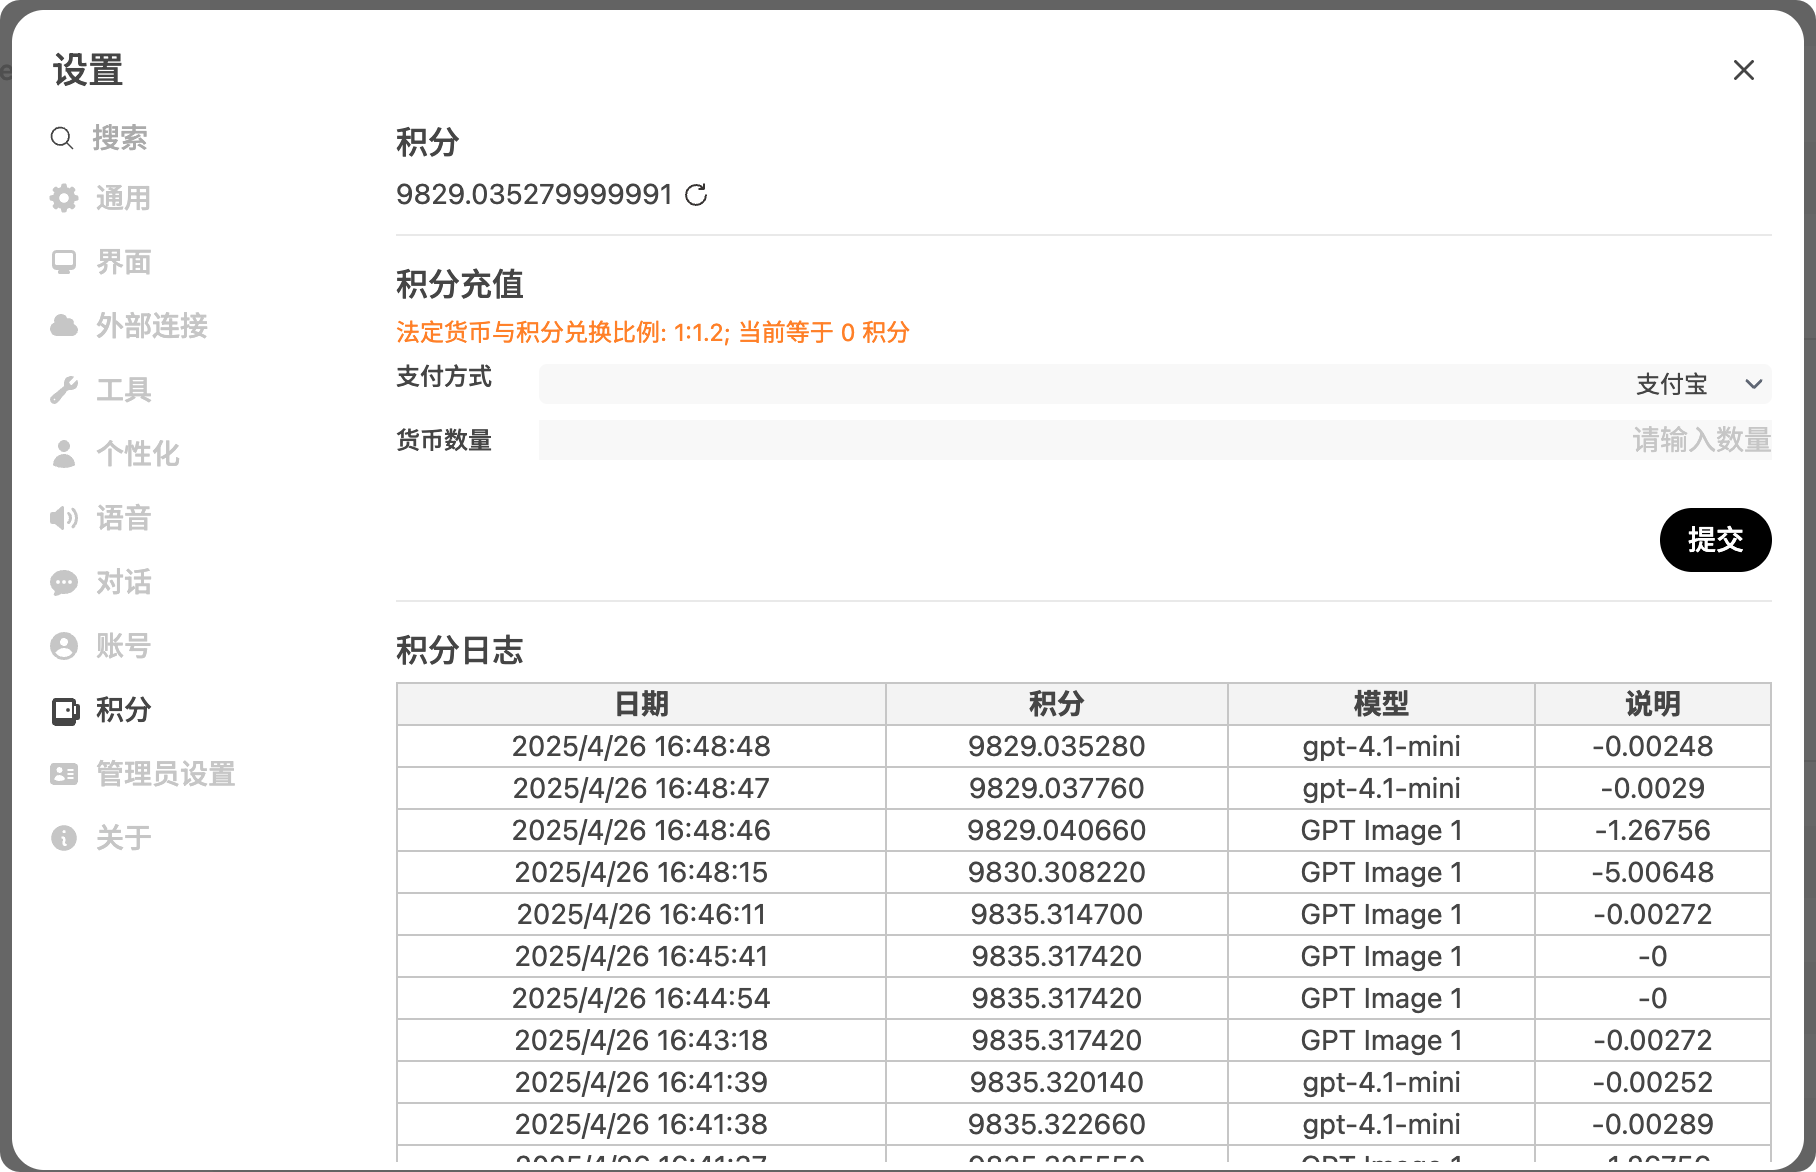
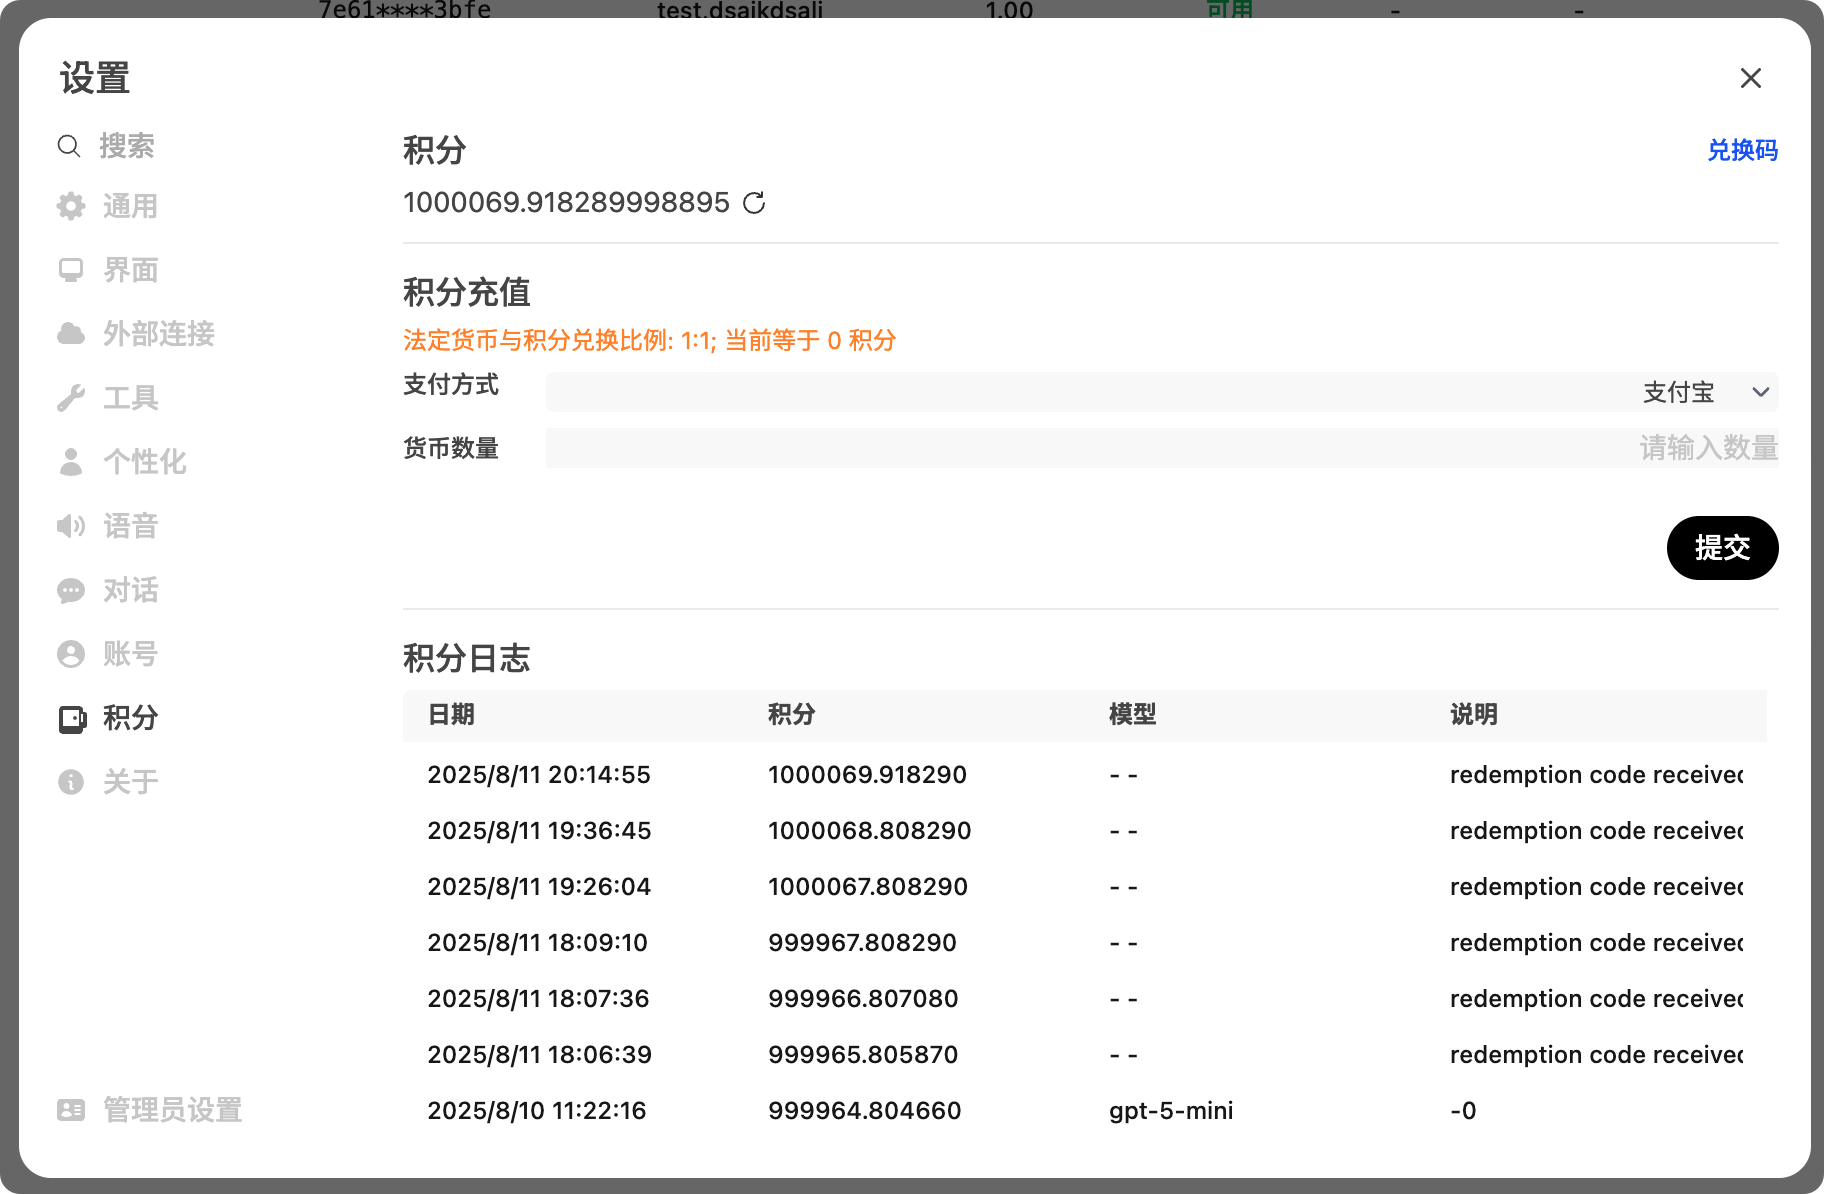
docs(redemption): add documentation for redemption code feature
Added sections for redemption code functionality and Redis configuration
to the README file to provide clear usage instructions.

diff --git a/README.md b/README.md
@@ -36,11 +36,23 @@ ghcr.io/u8f69/open-webui:<版本号>
 
 ![usage](./docs/usage.png)
 
+### 兑换码
+
+![redemption code](./docs/redemption.png)
+
 ### 支持注册邮箱验证
 
 ![email](./docs/sign_verify_user.png)
 
 ## 拓展配置
+
+### 兑换码功能
+
+需要使用 Redis 避免被多次兑换
+
+```
+REDIS_URL=redis://:<password>@<host>:6379/0
+```
 
 ### 自定义价格配置
 
